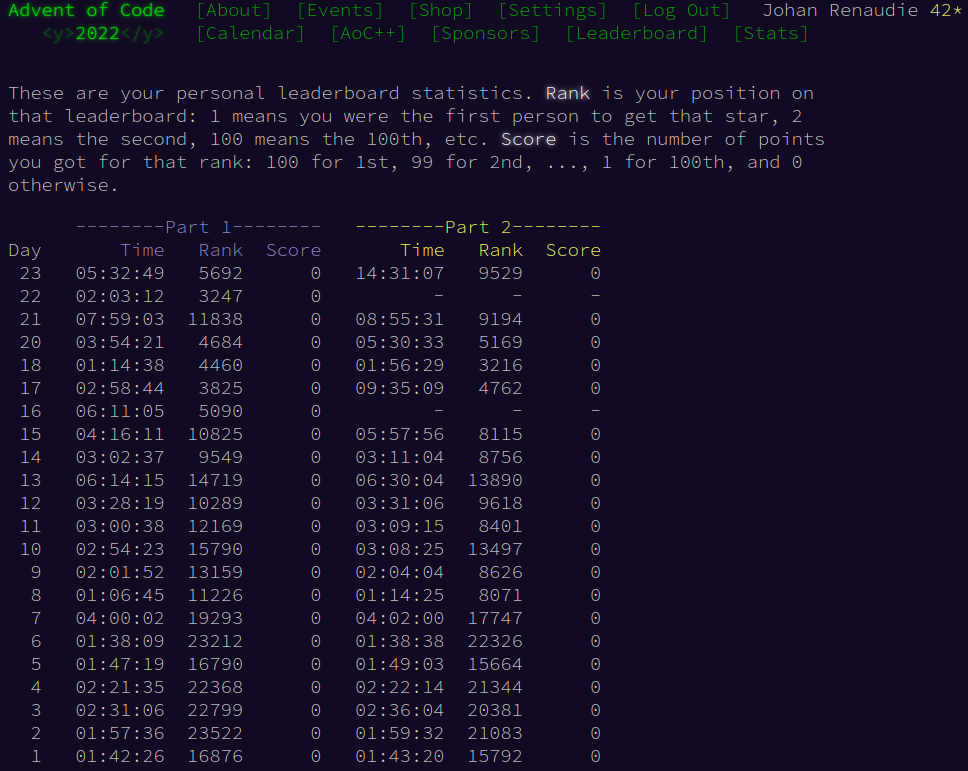
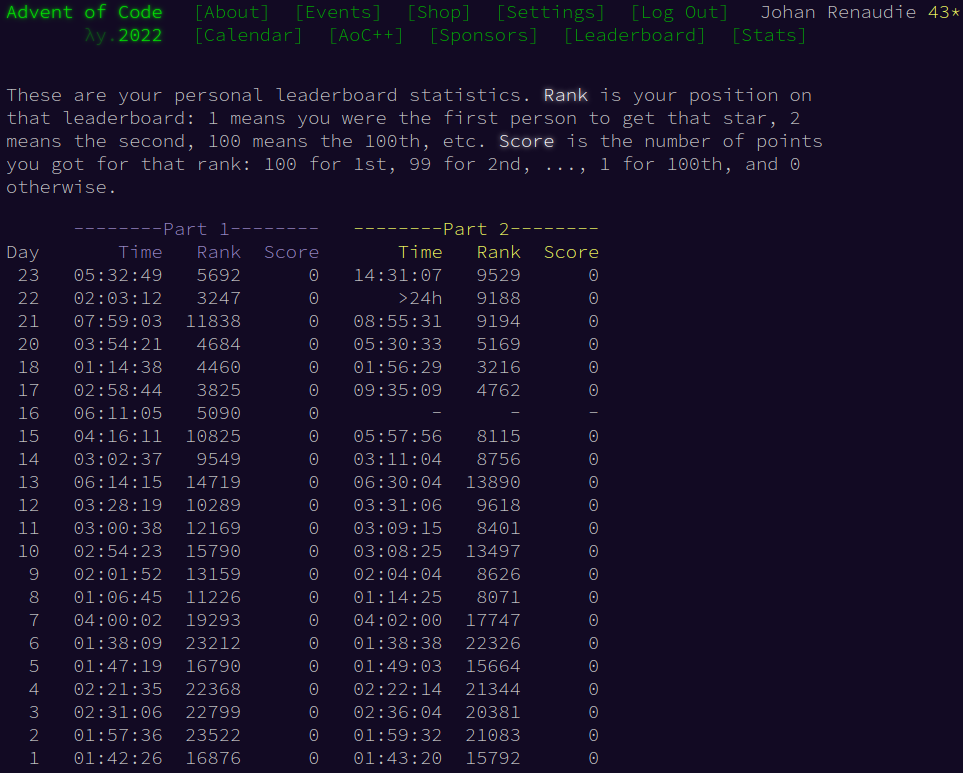
finished day 22

diff --git a/2022/README.md b/2022/README.md
@@ -14,3 +14,6 @@ https://adventofcode.com/2022
 
 ### Day 12: Hill Climbing Algorithm
 ![](visualizations/plot_day12a.png)![](visualizations/plot_day12b.png)
+
+### Day 22: Monkey Map
+![](cube_day22.png)
